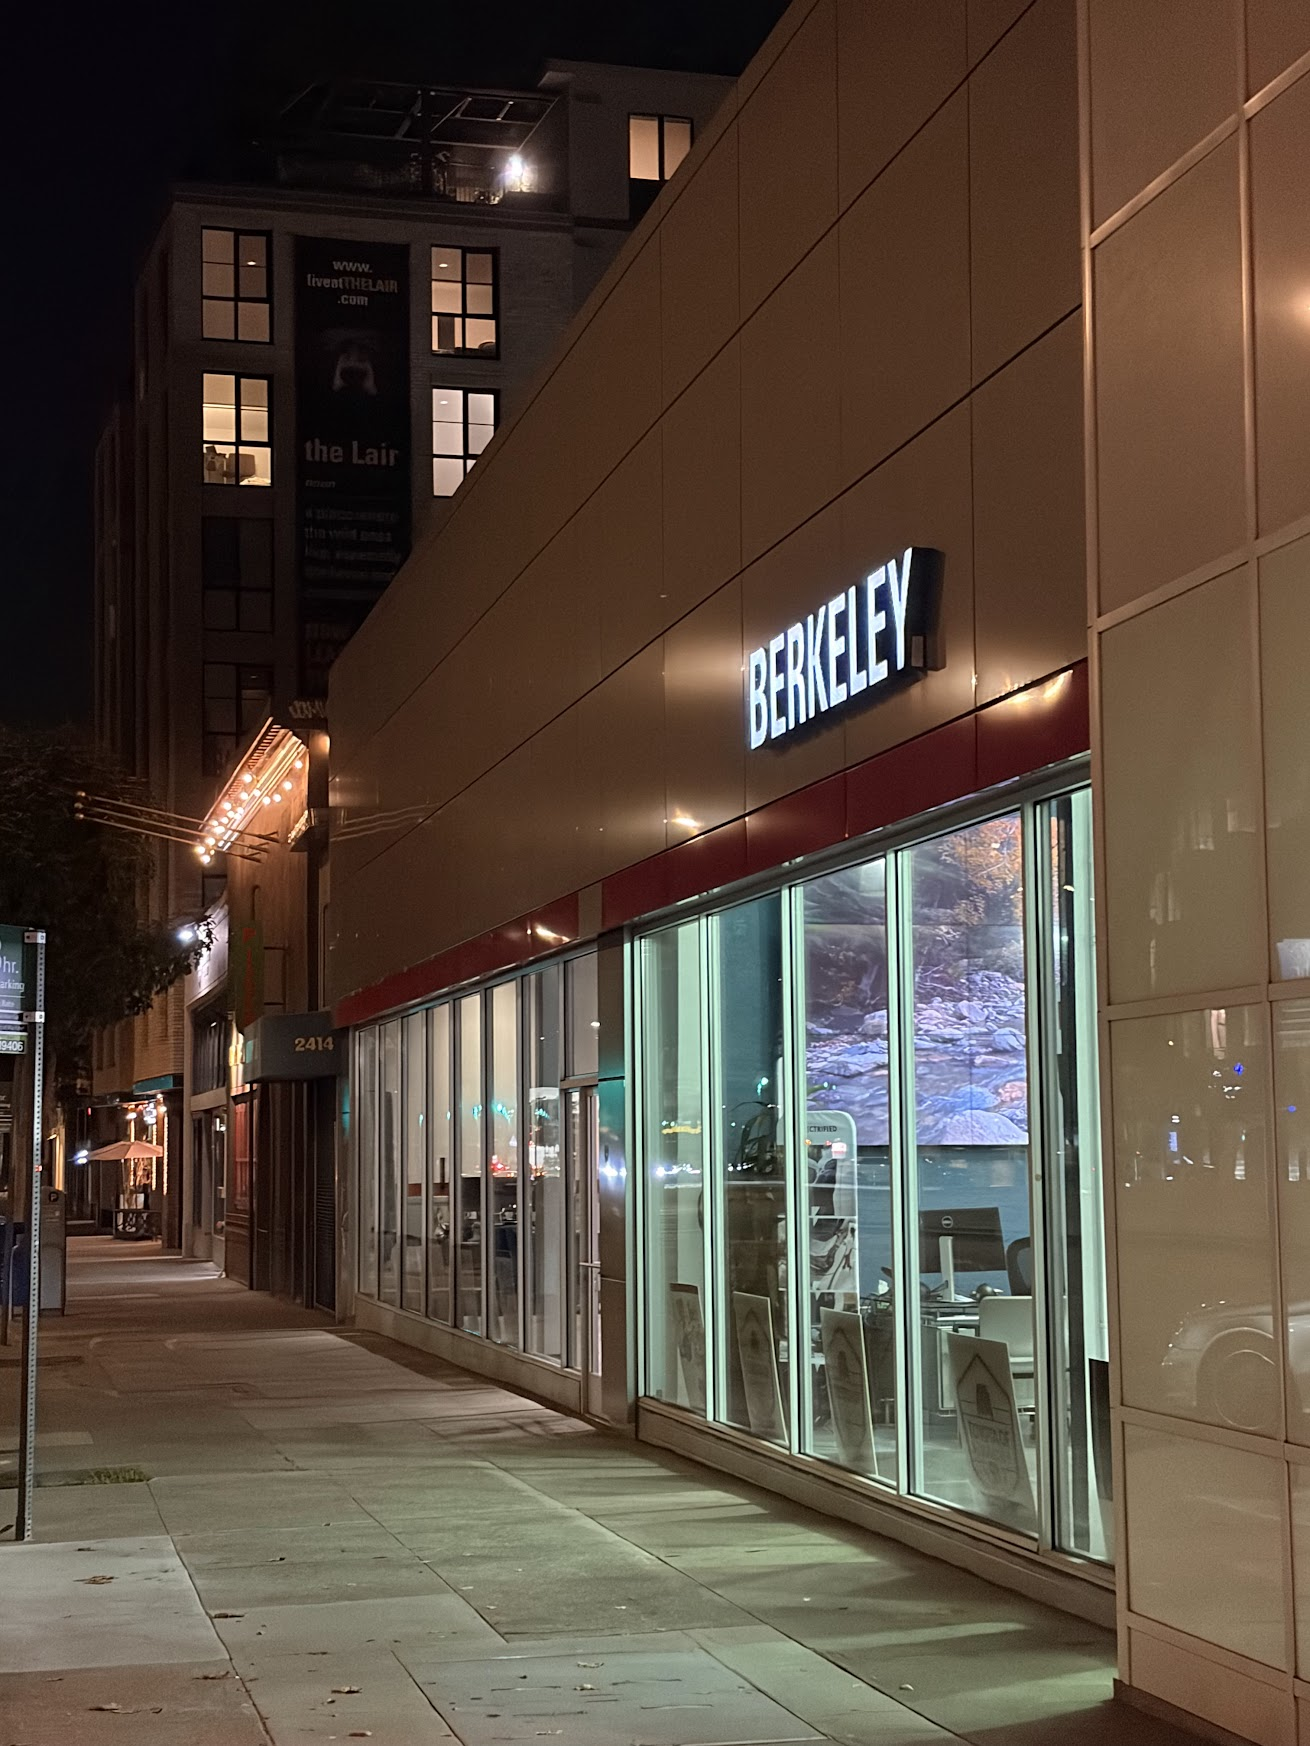
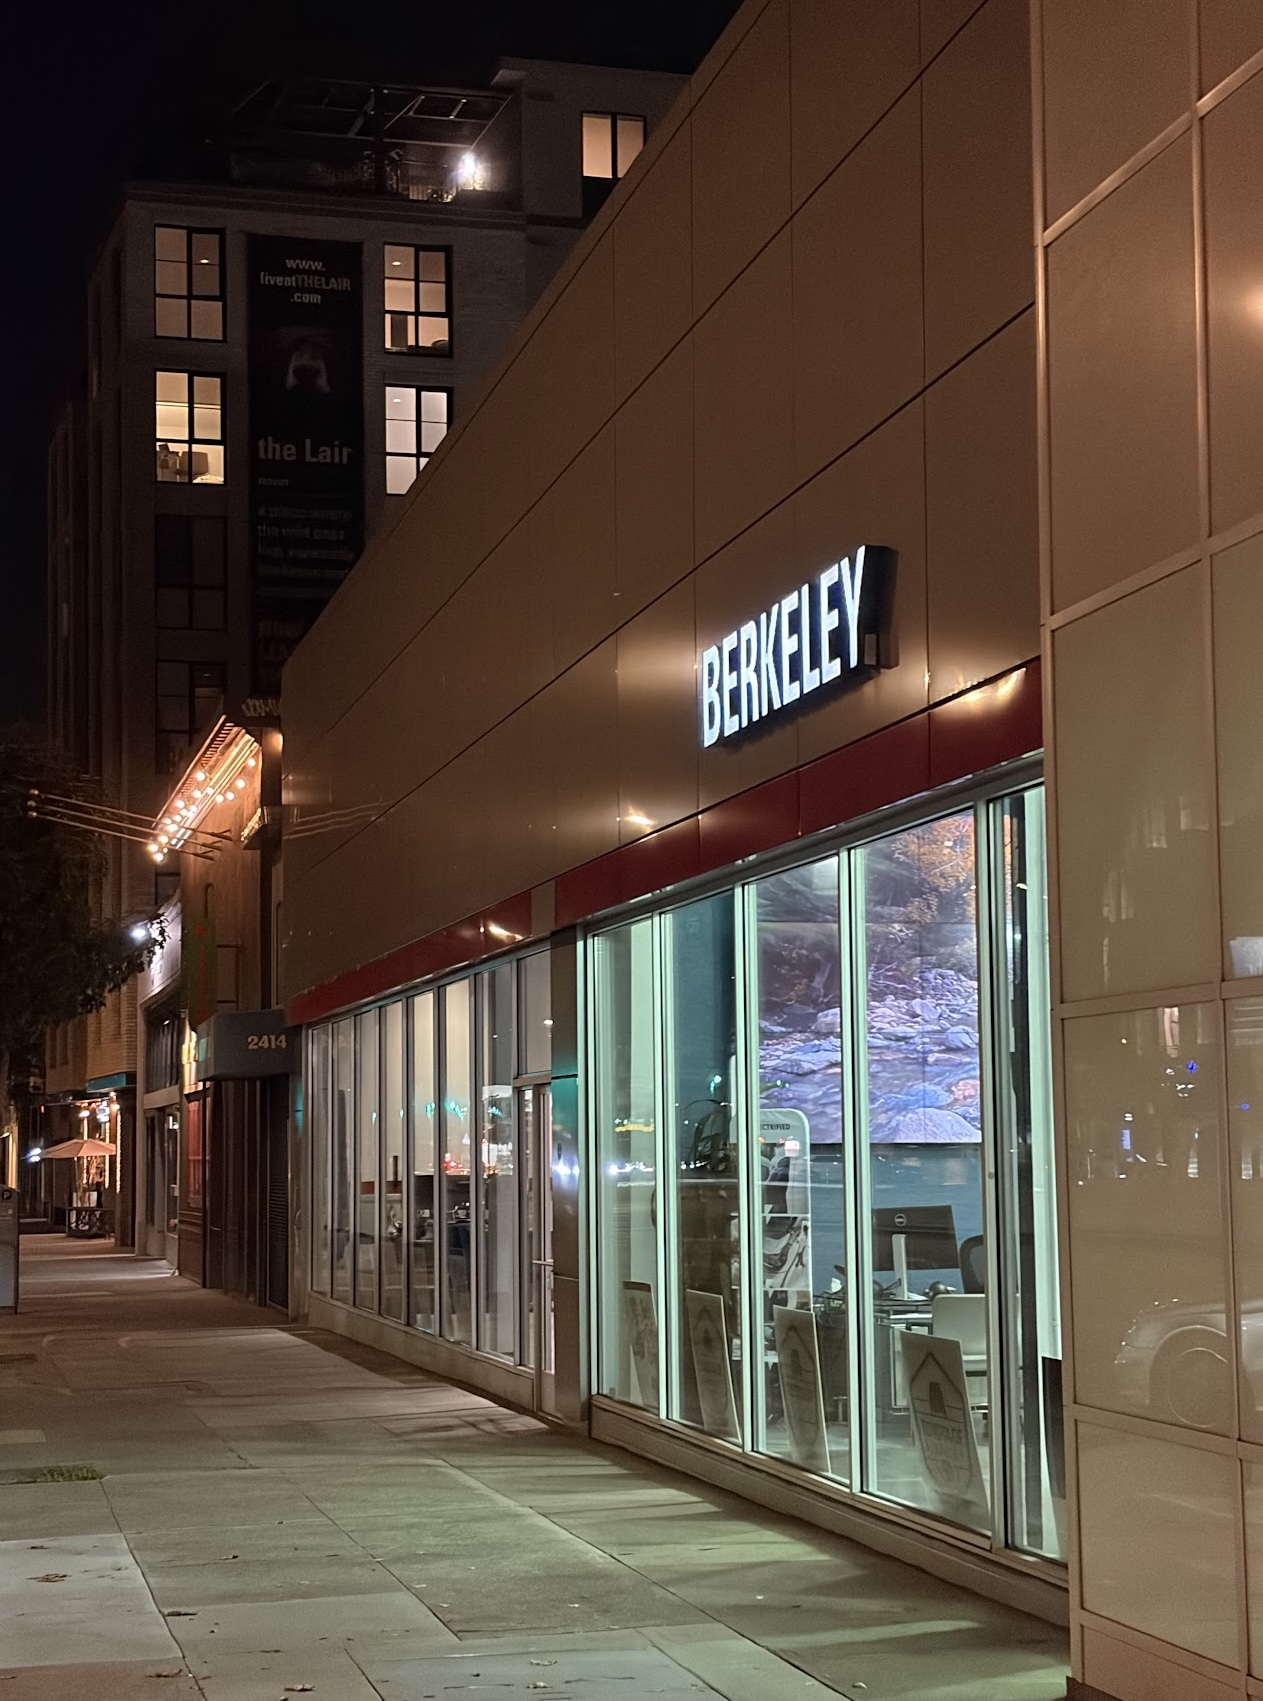
Cleaning up page.

diff --git a/index.html b/index.html
@@ -99,7 +99,7 @@
             </figcaption>
             <div class="image-box landscape">
               <img
-                src="images/architectural_far_zoom.jpg"
+                src="images/architectural_far_zoom.jpg?v=2"
                 alt="Building photographed from far away at 2x zoom"
                 onerror="this.classList.add('is-missing')"
               />
@@ -124,7 +124,7 @@
         <figure class="dolly-figure">
           <div class="image-box dolly">
             <img
-              src="images/dolly-zoom.gif?v=3"
+              src="images/dolly-zoom.gif?v=9"
               alt="Animated dolly zoom sequence"
               onerror="this.classList.add('is-missing')"
             />
